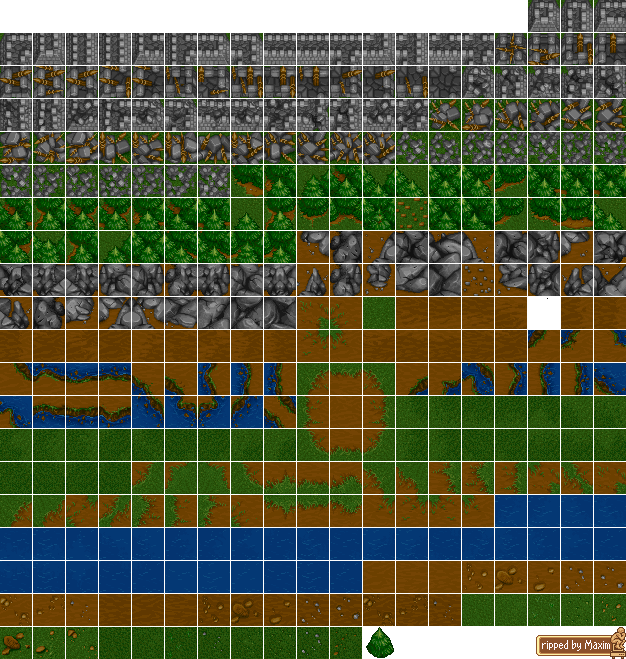
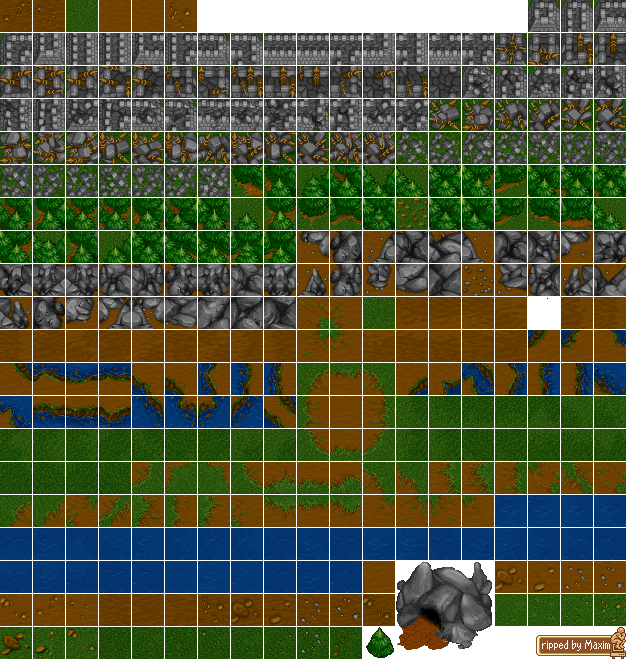
mine sprites implemented.
Units cost bug solved

Changed region(s): [[0.607, 0.8498, 0.7891, 1.0], [0.0, 0.0, 0.3339, 0.0607]]

diff --git a/Motor2D/j1Map.cpp b/Motor2D/j1Map.cpp
@@ -170,7 +170,7 @@ bool j1Map::WalkabilityArea(int x, int y, int rows, int columns, bool modify, bo
 				for (int i = 0; i < rows; i++)
 				{
 					iPoint currentMapTile = WorldToMap(currentTile.x + j * data.tile_width, currentTile.y + i * data.tile_height);
-					if ((tree_layer->GetID(currentMapTile.x, currentMapTile.y) == 373 && check_trees) || (tree_layer->GetID(currentMapTile.x,currentMapTile.y) == 179 && check_mines))
+					if ((tree_layer->GetID(currentMapTile.x, currentMapTile.y) == 373 && check_trees) || (IsMine(tree_layer->GetID(currentMapTile.x,currentMapTile.y))&& check_mines))
 					{
 						ret = false;
 						if (check_trees)
@@ -194,6 +194,11 @@ bool j1Map::WalkabilityArea(int x, int y, int rows, int columns, bool modify, bo
 	}
 
 	return ret;
+}
+
+bool j1Map::IsMine(uint ID)
+{
+	return (ID==336 || ID==337||ID==338||ID==355||ID==356||ID==357||ID==374||ID==375||ID==376);
 }
 
 //Returns the rect of the specified tile.

diff --git a/Motor2D/Building.cpp b/Motor2D/Building.cpp
@@ -237,13 +237,18 @@ void Building::HandleResourceProduction()
 
 void Building::AddUnitToQueue(Type type)
 {
-	unit_queue.push_back(type);
-	queueDisplay->pushTroop(type);
-	if (unit_queue.size() == 1)
+	if (App->entitycontroller->SpendCost(type))
 	{
-		producing_unit = true;
-		timer.Start();
+		App->entitycontroller->SubstractRandomWorkers(App->entitycontroller->DataBase[type]->cost.worker_cost);
+		unit_queue.push_back(type);
+		queueDisplay->pushTroop(type);
+		if (unit_queue.size() == 1)
+		{
+			producing_unit = true;
+			timer.Start();
+		}
 	}
+	
 }
 
 void Building::HandleUnitProduction()

diff --git a/Motor2D/j1ActionsController.cpp b/Motor2D/j1ActionsController.cpp
@@ -112,7 +112,9 @@ bool j1ActionsController::Update(float dt)
 			if (!App->entitycontroller->selected_entities.empty())
 			{
 				if (App->entitycontroller->CheckCost(FOOTMAN) && ((Building*)*App->entitycontroller->selected_entities.begin())->ex_state != BEING_BUILT)
+				{
 					((Building*)*App->entitycontroller->selected_entities.begin())->AddUnitToQueue(FOOTMAN);
+				}
 			}
 			doingAction = false;
 			break;

diff --git a/Motor2D/j1EntityController.cpp b/Motor2D/j1EntityController.cpp
@@ -690,8 +690,7 @@ Squad* j1EntityController::AddSquad(Type type, fPoint position)
 		if (!unit_template->IsEnemy())
 		{
 			new_squad->FollowingOrdersSFX = GetOrdersSFXFromType(type);
-			App->scene->wood -= unit_template->cost.wood_cost;
-			SubstractRandomWorkers(unit_template->cost.worker_cost);
+			
 		}
 		new_squad->UID = last_UID++;
 		squads.push_back(new_squad);

diff --git a/Motor2D/j1Map.h b/Motor2D/j1Map.h
@@ -108,7 +108,7 @@ public:
 	iPoint j1Map::WorldToMap(int x, int y) const;
 
 	bool WalkabilityArea(int x, int y, int rows, int columns, bool modify = false, bool check_trees = false, bool check_mines = false);
-
+	bool IsMine(uint ID);
 	bool j1Map::CreateWalkabilityMap(int& width, int& height, uchar** buffer) const;
 
 

diff --git a/Motor2D/j1App.cpp b/Motor2D/j1App.cpp
@@ -67,7 +67,7 @@ j1App::j1App(int argc, char* args[]) : argc(argc), args(args)
 	AddModule(entitycontroller, false);
 	AddModule(gui);
 	AddModule(uiscene);
-	AddModule(tutorial, true);
+	AddModule(tutorial, false);
 	AddModule(sceneswitch);
 	AddModule(particle);
 	AddModule(actionscontroller);
